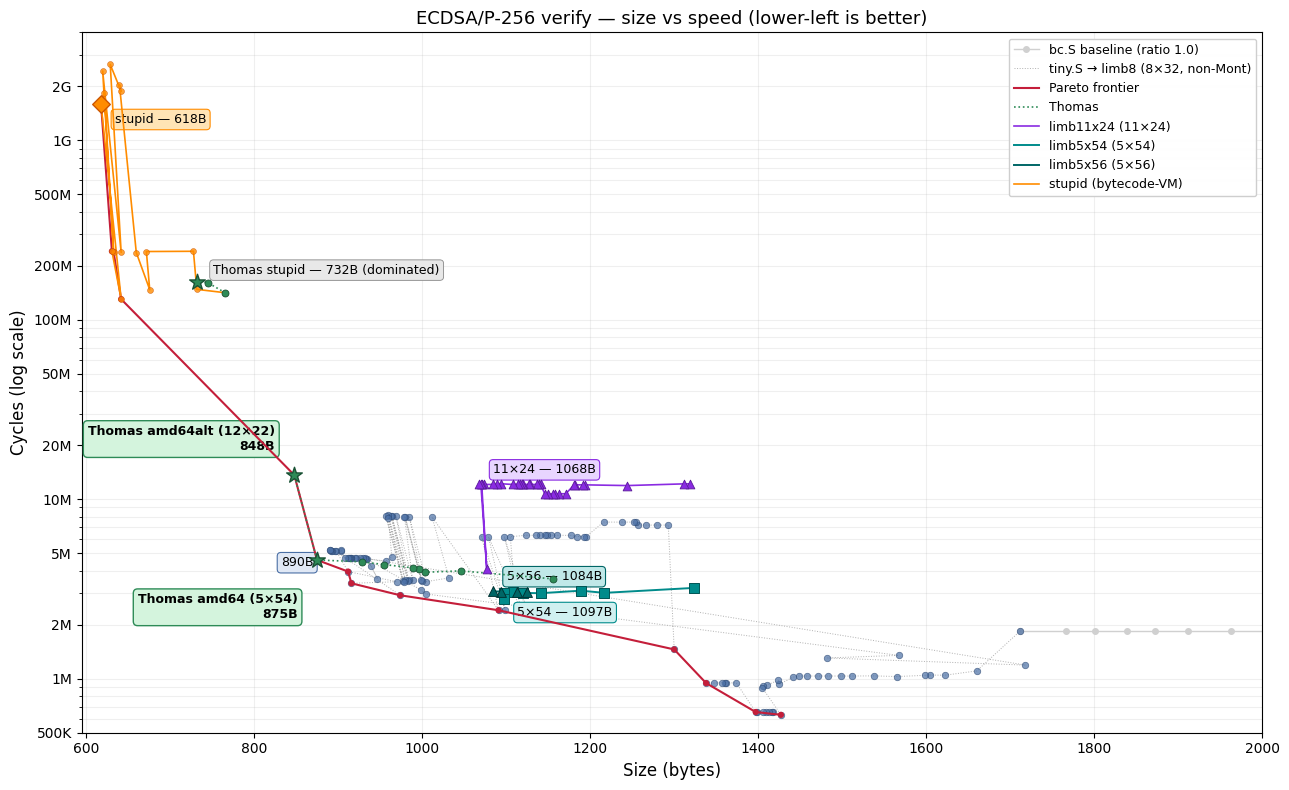
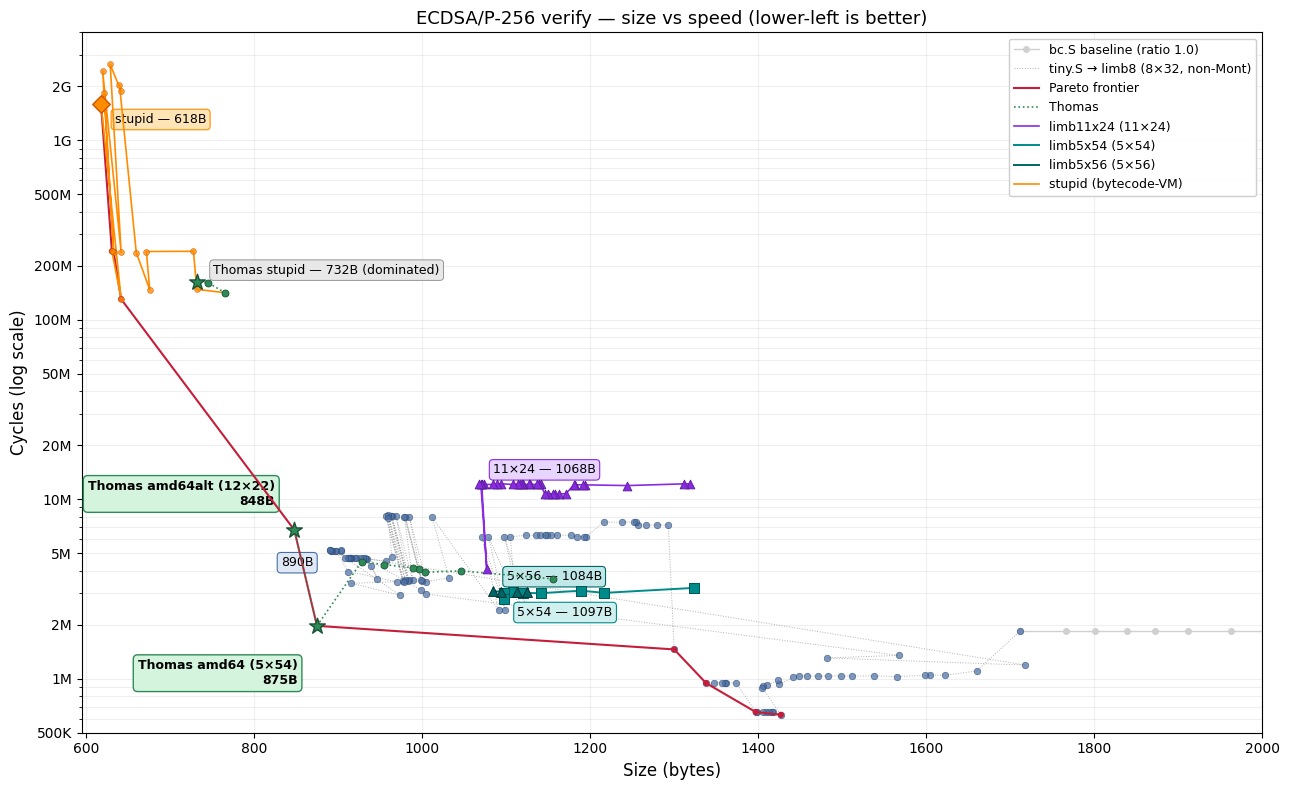
progress: plot Thomas amd64/amd64alt at local-rdtsc cycles
His README cycles are Coffee Lake rdpmc; everything else on the chart
is local rdtsc. Benched his published .S here (20-run median):
875→1.97M, 848→6.74M. Frontier is now same-scale.

v1–v7 stay at his-reported values (no source to rebench) and are
excluded from the Pareto computation; they remain on the green dotted
line as history.

New frontier: our stupid 618–642 B → Thomas 848/875 → our fast.S
1300+ B speed corners. All our limb8/5x54/5x56/11x24 builds are
dominated by his amd64 875/1.97M.

diff --git a/tools/plot_history.py b/tools/plot_history.py
@@ -142,13 +142,18 @@ TRAIL = [
 # Signed Redundant Representations", 19 Apr 2026).
 #   amd64    = 5×54 signed-Montgomery, R=2^270, pre-shifted operands
 #   amd64alt = 12×22 signed-Montgomery, R=2^264 (32×32→64 imul only)
-# Cycles are HIS Coffee Lake numbers (i5-8259U) — same scale as v1–v7.
-# Local rdtsc bench (this machine, 20-run median): 875→1.97M, 848→6.74M.
-THOMAS_TRACK = [(1156, 3600), (1046, 3990), (1004, 3920), (996, 4100),
-                (989, 4150), (955, 4325), (928, 4482),
-                (875, 4590), (848, 13640)]
-THOMAS_AMD64    = (875, 4590)
-THOMAS_AMD64ALT = (848, 13640)
+#
+# v1–v7 cycles are his self-reported Coffee Lake rdpmc — DIFFERENT scale
+# from everything else on this chart (paper §3.4: rdtsc undercounts ~1.5×;
+# measured ratio here ≈2.3× for 5×54). They're shown as the green dotted
+# history line but EXCLUDED from the Pareto computation. The published
+# points below were benched locally (20-run median rdtsc) so they're
+# same-scale with our tracks and DO participate in the frontier.
+THOMAS_V1_V7 = [(1156, 3600), (1046, 3990), (1004, 3920), (996, 4100),
+                (989, 4150), (955, 4325), (928, 4482)]
+THOMAS_AMD64    = (875, 1970)    # local rdtsc; his README: 4.59M
+THOMAS_AMD64ALT = (848, 6745)    # local rdtsc; his README: 13.64M
+THOMAS_TRACK = THOMAS_V1_V7 + [THOMAS_AMD64, THOMAS_AMD64ALT]
 THOMAS    = (928, 4482)     # v7 — competition endpoint
 CLAUDE    = (933, 4674)     # 20-run median; WAS size corner
 
@@ -196,7 +201,8 @@ def pareto(pts):
     front.sort(key=lambda i: pts[i][0])
     return front
 
-ALL_XY = ([(b, c) for b, c, _ in TRAIL_SHOWN] + THOMAS_TRACK
+ALL_XY = ([(b, c) for b, c, _ in TRAIL_SHOWN]
+          + [THOMAS_AMD64, THOMAS_AMD64ALT]   # local-scale only
           + LIMB11_TRACK + LIMB5X54_TRACK + LIMB5X56_TRACK
           + STUPID_TRACK + THOMAS_STUPID_TRACK)
 FRONT = pareto(ALL_XY)
